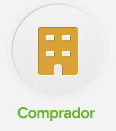
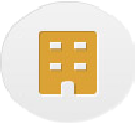
Alteracoes de imagens e layout

diff --git a/public/css/app.css b/public/css/app.css
@@ -660,12 +660,17 @@ p.note {
 		    -ms-transition: all 300ms ease-out; 
 		     -o-transition: all 300ms ease-out;
 		        transition: all 300ms ease-out;
+	}	
+	.perfil h1 {
+		font-family: Avant Garde, Avantgarde, Century Gothic, CenturyGothic, AppleGothic, sans-serif;
+		font-size: 22px;
 	}		
 	.perfil img {
 		margin:auto;
-		display:block;		
+		display:block;	
+		border: 1px dashed black;
 		-webkit-border-radius: 30px;
-		border-radius: 30px;		
+		border-radius: 300px;		
 		cursor: pointer;
 		
 		-webkit-transform: scale(.9);
@@ -681,10 +686,11 @@ p.note {
 		        transition: all 400ms cubic-bezier(0.250, 0.460, 0.450, 0.940);
 	}	
 	.perfil:hover {
-		background-color: #aaa;
+		background-color: #AFCEE2;
 		-webkit-border-radius: 30px;
 		border-radius: 30px;		
 		cursor: pointer;
+		color:green;
 	}	
 	.perfil:hover img {
 		-moz-transform: scale(1);
